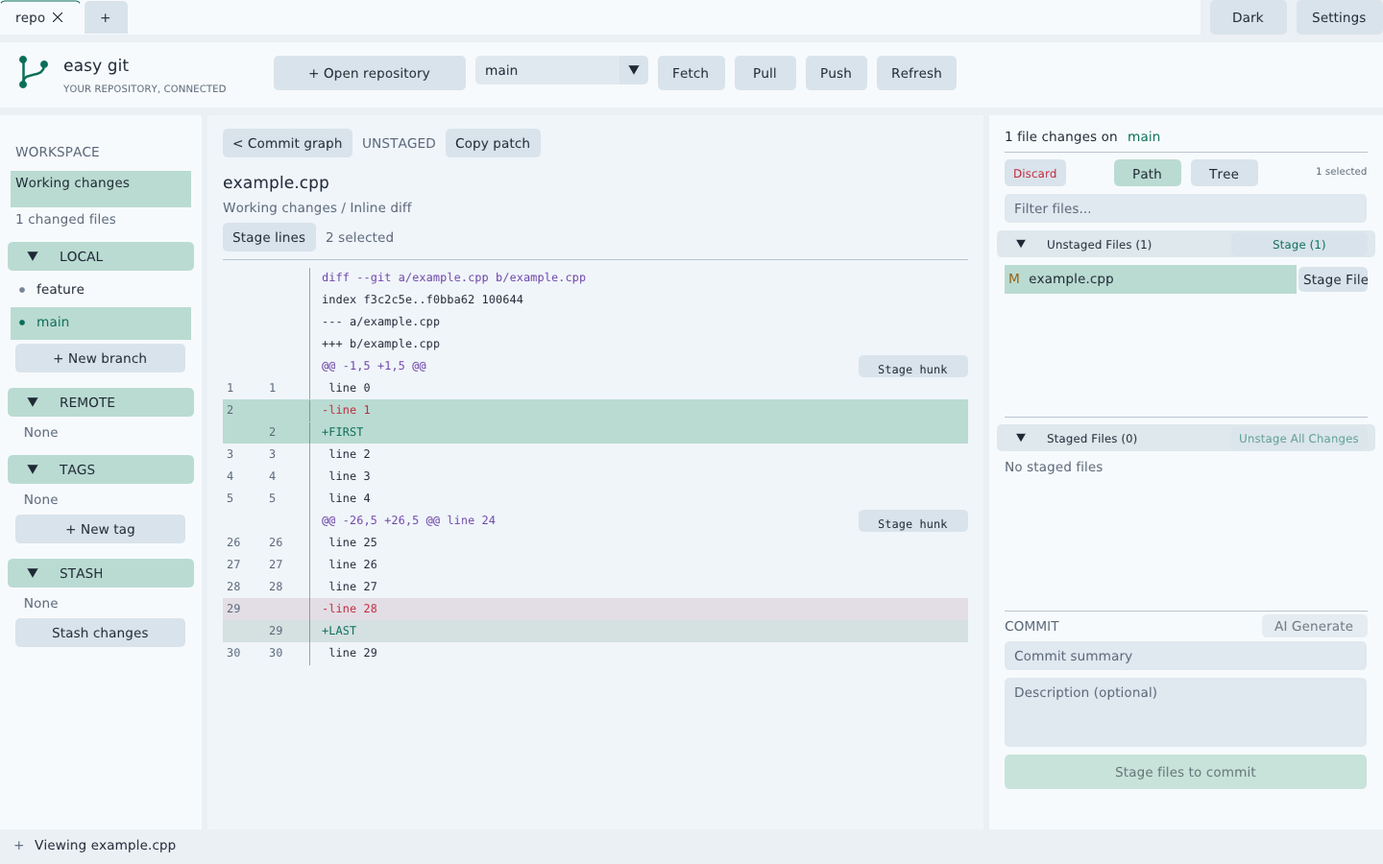
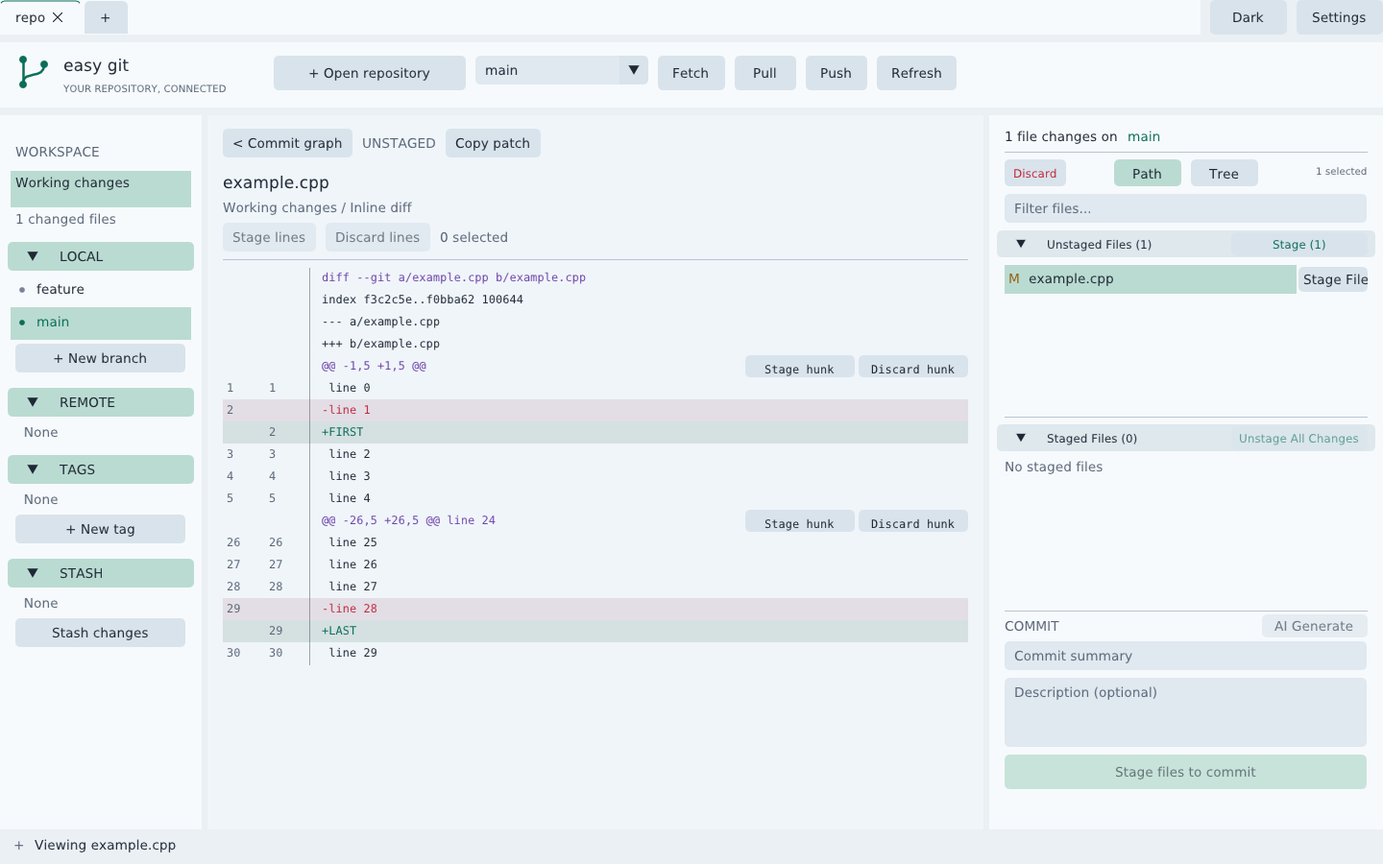
feat: discard selected diff lines and hunks

diff --git a/src/git_workflows.cpp b/src/git_workflows.cpp
@@ -53,6 +53,45 @@ struct Entry { std::string mode, oid; };
 Entry index_entry(const std::string& listing) {
     Entry e; std::istringstream stream(listing); stream >> e.mode >> e.oid; return e;
 }
+std::string selected_content(const std::string& baseline,const std::string& preview,const std::vector<int>& selected,bool reverse) {
+    auto original = lines(baseline), patch = lines(preview);
+    std::set<int> selection(selected.begin(),selected.end());
+    if (selection.empty()) throw std::runtime_error("Select added or removed lines.");
+    std::string result; size_t cursor = 0; bool hunk = false; int used = 0;
+    auto append = [&](const std::string& line) {
+        if (!result.empty() && result.back() != '\n' && !line.empty())
+            throw std::runtime_error("This selection joins lines without a final newline. Select the complete replacement hunk.");
+        result += line;
+    };
+    for (int i = 0; i < int(patch.size()); ++i) {
+        auto row = patch[i];
+        if (row.rfind("@@ ",0) == 0) {
+            int start = 0, count = 1; auto offset = reverse ? row.find(" +") : row.find(" -");
+            if (offset == std::string::npos || sscanf(row.c_str()+offset+2,"%d,%d",&start,&count) < 1)
+                throw std::runtime_error("Invalid diff hunk.");
+            size_t position = size_t(count == 0 ? start : start-1);
+            if (position < cursor || position > original.size()) throw std::runtime_error("Diff does not match the file.");
+            while (cursor < position) append(original[cursor++]);
+            hunk = true; continue;
+        }
+        if (!hunk || row.empty() || row[0] == '\\') continue;
+        char sign = row[0]; if (sign != ' ' && sign != '+' && sign != '-') { hunk = false; continue; }
+        std::string content = row.substr(1);
+        if (i+1 < int(patch.size()) && patch[i+1].rfind("\\ No newline",0) == 0 && !content.empty() && content.back() == '\n') content.pop_back();
+        bool chosen = selection.count(i) && sign != ' ';
+        if (chosen) ++used;
+        char action = reverse ? (sign == '+' ? '-' : sign == '-' ? '+' : ' ') : sign;
+        if (action == '+') { if (chosen) append(content); }
+        else {
+            if (cursor >= original.size() || original[cursor] != content) throw std::runtime_error("Diff content no longer matches the file.");
+            if (action == ' ' || !chosen) append(original[cursor]);
+            ++cursor;
+        }
+    }
+    if (used != int(selection.size())) throw std::runtime_error("Select only changed text lines inside a diff hunk.");
+    while (cursor < original.size()) append(original[cursor++]);
+    return result;
+}
 std::pair<std::string,std::string> remote_branch(const Git& git,const Ref& ref) {
     auto name = ref.full.substr(std::string("refs/remotes/").size());
     std::istringstream names(git.checked({"remote"})); std::string best;
@@ -72,42 +111,7 @@ void Git::stage_lines(const File& file,bool unstage,const std::string& preview,c
     auto baseline = entry.oid.empty() ? std::string() : checked({"cat-file","blob",entry.oid});
     if (baseline.find('\0') != std::string::npos || preview.find("GIT binary patch") != std::string::npos)
         throw std::runtime_error("Stage binary files as a whole file.");
-    auto original = lines(baseline), patch = lines(preview);
-    std::set<int> selection(selected.begin(),selected.end());
-    if (selection.empty()) throw std::runtime_error("Select added or removed lines.");
-    std::string result; size_t cursor = 0; bool hunk = false; int used = 0;
-    auto append = [&](const std::string& line) {
-        if (!result.empty() && result.back() != '\n' && !line.empty())
-            throw std::runtime_error("This selection joins lines without a final newline. Select the complete replacement hunk.");
-        result += line;
-    };
-    for (int i = 0; i < int(patch.size()); ++i) {
-        auto row = patch[i];
-        if (row.rfind("@@ ",0) == 0) {
-            int start = 0, count = 1; auto offset = unstage ? row.find(" +") : row.find(" -");
-            if (offset == std::string::npos || sscanf(row.c_str()+offset+2,"%d,%d",&start,&count) < 1)
-                throw std::runtime_error("Invalid diff hunk.");
-            size_t position = size_t(count == 0 ? start : start-1);
-            if (position < cursor || position > original.size()) throw std::runtime_error("Diff does not match the index.");
-            while (cursor < position) append(original[cursor++]);
-            hunk = true; continue;
-        }
-        if (!hunk || row.empty() || row[0] == '\\') continue;
-        char sign = row[0]; if (sign != ' ' && sign != '+' && sign != '-') { hunk = false; continue; }
-        std::string content = row.substr(1);
-        if (i+1 < int(patch.size()) && patch[i+1].rfind("\\ No newline",0) == 0 && !content.empty() && content.back() == '\n') content.pop_back();
-        bool chosen = selection.count(i) && sign != ' ';
-        if (chosen) ++used;
-        char action = unstage ? (sign == '+' ? '-' : sign == '-' ? '+' : ' ') : sign;
-        if (action == '+') { if (chosen) append(content); }
-        else {
-            if (cursor >= original.size() || original[cursor] != content) throw std::runtime_error("Diff content no longer matches the index.");
-            if (action == ' ' || !chosen) append(original[cursor]);
-            ++cursor;
-        }
-    }
-    if (used != int(selection.size())) throw std::runtime_error("Select only changed text lines inside a diff hunk.");
-    while (cursor < original.size()) append(original[cursor++]);
+    auto result = selected_content(baseline,preview,selected,unstage);
     if (entry.mode.empty()) {
         if (unstage) {
             auto tree = checked({"ls-tree","-z","HEAD","--",file.path});
@@ -121,6 +125,38 @@ void Git::stage_lines(const File& file,bool unstage,const std::string& preview,c
         throw std::runtime_error("File or index changed. Refresh and select lines again.");
     if (remove) checked({"update-index","--force-remove","--",file.path});
     else checked({"update-index","--add","--cacheinfo",entry.mode,oid,file.path});
+}
+void Git::discard_lines(const File& file,const std::string& preview,const std::vector<int>& selected) const {
+    if (!file.unstaged() || file.conflicted() || !file.original.empty())
+        throw std::runtime_error("Discard lines requires an unstaged regular file without conflicts or renames.");
+    auto path = regular_path(root_,file.path);
+    auto signature = checked({"ls-files","--stage","-z","--",file.path});
+    auto entry = index_entry(signature);
+    if (!entry.mode.empty() && entry.mode != "100644" && entry.mode != "100755")
+        throw std::runtime_error("Discard lines requires a regular text file.");
+    const bool exists = fs::exists(path);
+    auto original = exists ? read_file(path) : std::string();
+    if (original.find('\0') != std::string::npos || preview.find("GIT binary patch") != std::string::npos)
+        throw std::runtime_error("Discard binary files as a whole file.");
+    if (diff(file,false) != preview) throw std::runtime_error("The diff changed. Review the file before discarding lines.");
+    auto result = selected_content(original,preview,selected,true);
+    if (result.size() > 1024*1024) throw std::runtime_error("Partial discard supports files up to 1 MiB.");
+    const bool remove = result.empty() && file.index == '?';
+    auto unchanged = [&] {
+        regular_path(root_,file.path);
+        if (fs::exists(path) != exists || (exists && read_file(path) != original) ||
+            checked({"ls-files","--stage","-z","--",file.path}) != signature || diff(file,false) != preview)
+            throw std::runtime_error("File or index changed. Review the selection before discarding it.");
+    };
+    if (remove) { unchanged(); fs::remove(path); }
+    else {
+        fs::create_directories(path.parent_path());
+        TempFile temp(result,(path.parent_path()/".easy-git-discard-XXXXXX").string());
+        auto permissions = exists ? fs::status(path).permissions() : fs::perms::owner_read | fs::perms::owner_write | fs::perms::group_read | fs::perms::others_read;
+        if (!exists && entry.mode == "100755") permissions |= fs::perms::owner_exec | fs::perms::group_exec | fs::perms::others_exec;
+        fs::permissions(temp.path,permissions);
+        unchanged(); fs::rename(temp.path,path);
+    }
 }
 Conflict Git::read_conflict(const File& file) const {
     Conflict c; c.path = file.path;

diff --git a/src/main.cpp b/src/main.cpp
@@ -158,6 +158,8 @@ struct RepoTab {
     std::array<std::string, 3> selection_anchor;
     std::array<std::vector<int>, 3> visible_files;
     std::vector<eg::File> pending_files;
+    std::string pending_diff;
+    std::vector<int> pending_diff_lines;
     bool previewing = false;
     int queued_preview_kind = -1;
     eg::File queued_preview;
@@ -785,13 +787,21 @@ struct RepoTab {
             git.stage_lines(file,unstage,patch,selection);
         });
     }
-    void stage_hunk(int header) {
+    std::vector<int> hunk_lines(int header) const {
         std::vector<int> selected;
         for (int i = header+1; i < int(detail_lines.size()); ++i) {
             if (detail_lines[i].text.rfind("@@",0) == 0 || detail_lines[i].text.rfind("diff ",0) == 0) break;
             if (changed_line(i)) selected.push_back(i);
         }
-        stage_diff_lines(std::move(selected));
+        return selected;
+    }
+    void stage_hunk(int header) { stage_diff_lines(hunk_lines(header)); }
+    void request_discard_lines(std::vector<int> selection,bool hunk = false) {
+        if (!partial_available() || selected_staged || selection.empty()) return;
+        auto found = std::find_if(repo.files.begin(),repo.files.end(),[&](const auto& f) { return f.path == selected_file; });
+        if (found == repo.files.end()) return;
+        pending_files = {*found}; pending_diff = detail; pending_diff_lines = std::move(selection);
+        pending_kind = hunk ? "discard hunk" : "discard lines";
     }
     void set_resolution(const std::string& text) {
         resolution.assign(1024*1024+1,0);
@@ -906,8 +916,12 @@ struct RepoTab {
                 draw->AddText({p.x+103,p.y+3},ImGui::GetColorU32(color),line.c_str());
                 ImGui::PushID(i);
                 if (partial_available() && line.rfind("@@ ",0) == 0) {
-                    ImGui::SetCursorScreenPos({p.x+std::max(0.0f,ImGui::GetContentRegionAvail().x-114),p.y});
+                    ImGui::SetCursorScreenPos({p.x+std::max(0.0f,ImGui::GetContentRegionAvail().x-(selected_staged ? 114 : 232)),p.y});
                     if (button(selected_staged ? "Unstage hunk" : "Stage hunk",true,{114,h})) stage_hunk(i);
+                    if (!selected_staged) {
+                        ImGui::SameLine(0,4);
+                        if (button("Discard hunk",!busy(),{114,h})) request_discard_lines(hunk_lines(i),true);
+                    }
                     ImGui::SetCursorScreenPos({p.x,p.y+h});
                 } else if (partial_available() && changed_line(i)) {
                     if (ImGui::InvisibleButton("line",{width,h})) pick_line(i,ImGui::GetIO().KeyCtrl,ImGui::GetIO().KeyShift);
@@ -915,6 +929,7 @@ struct RepoTab {
                     if (ImGui::BeginPopupContextItem()) {
                         if (!selected_lines.count(i)) pick_line(i,false,false);
                         if (ImGui::MenuItem(selected_staged ? "Unstage selected lines" : "Stage selected lines")) stage_diff_lines({selected_lines.begin(),selected_lines.end()});
+                        if (!selected_staged && ImGui::MenuItem("Discard selected lines...")) request_discard_lines({selected_lines.begin(),selected_lines.end()});
                         ImGui::EndPopup();
                     }
                 } else ImGui::Dummy({width,h});
@@ -935,6 +950,10 @@ struct RepoTab {
         if (workspace) {
             if (button(selected_staged ? "Unstage lines" : "Stage lines",partial_available() && !selected_lines.empty()))
                 stage_diff_lines({selected_lines.begin(),selected_lines.end()});
+            if (!selected_staged) {
+                ImGui::SameLine();
+                if (button("Discard lines",partial_available() && !selected_lines.empty())) request_discard_lines({selected_lines.begin(),selected_lines.end()});
+            }
             ImGui::SameLine(); ImGui::TextColored(muted,"%zu selected",selected_lines.size());
         }
         ImGui::Separator();
@@ -1189,6 +1208,14 @@ struct RepoTab {
             ImGui::TextWrapped("Delete %s at %s?",pending_branch.full.c_str(),pending_branch.id.substr(0,12).c_str());
             if (pending_branch.full.rfind("refs/heads/",0) == 0) ImGui::Checkbox("Allow deleting an unmerged branch",&hard_confirm);
             else ImGui::TextWrapped("This deletes the branch on the remote server. A changed remote tip will cause rejection.");
+        } else if (pending_kind == "discard lines" || pending_kind == "discard hunk") {
+            ImGui::TextWrapped("Discard %zu changed lines in %s?",pending_diff_lines.size(),visible_path(pending_files.front().path).c_str());
+            ImGui::BeginChild("discard_selection",{0,180},ImGuiChildFlags_Borders,ImGuiWindowFlags_HorizontalScrollbar);
+            std::istringstream patch(pending_diff); std::set<int> chosen(pending_diff_lines.begin(),pending_diff_lines.end());
+            int i = 0;
+            for (std::string line; std::getline(patch,line); ++i) if (chosen.count(i)) ImGui::TextUnformatted(line.c_str());
+            ImGui::EndChild();
+            ImGui::TextWrapped("Only these unstaged edits will be discarded. Staged changes and other lines are kept. Discard cannot be undone here.");
         } else if (pending_kind == "discard files") {
             ImGui::Text("Discard unstaged changes in %zu files?",pending_files.size());
             ImGui::BeginChild("discard_files",{0,std::min(160.0f,28.0f*pending_files.size()+10)},ImGuiChildFlags_Borders);
@@ -1238,7 +1265,8 @@ struct RepoTab {
             auto kind = pending_kind; auto commit = pending_commit; auto saved = pending_stash;
             auto files = pending_files; auto branch = pending_branch; auto push = pending_push; bool force = hard_confirm;
             auto operation = pending_operation; int parent = mainline, mode = reset_mode; bool index = restore_index;
-            mutate(kind,[kind,commit,saved,operation,parent,mode,index,files,branch,push,force](const eg::Git& git) {
+            auto patch = pending_diff; auto lines = pending_diff_lines;
+            mutate(kind,[kind,commit,saved,operation,parent,mode,index,files,branch,push,force,patch,lines](const eg::Git& git) {
                 if (kind == "delete branch") git.delete_branch(branch,force);
                 else if (kind == "force push") git.force_push(push);
                 else if (kind == "cherry-pick") git.cherry_pick(commit,parent);
@@ -1248,6 +1276,7 @@ struct RepoTab {
                 else if (kind == "apply stash") git.apply_stash(saved,index);
                 else if (kind == "delete stash") git.delete_stash(saved);
                 else if (kind == "discard files") git.discard_files(files);
+                else if (kind == "discard lines" || kind == "discard hunk") git.discard_lines(files.at(0),patch,lines);
                 else git.resolve_operation(operation,kind);
             });
             pending_kind.clear(); ImGui::CloseCurrentPopup();

diff --git a/tests/git_workflows_test.cpp b/tests/git_workflows_test.cpp
@@ -57,6 +57,39 @@ int main() {
         require(fresh.checked({"show",":new.txt"})=="first\n","Partial stage in unborn branch failed");
         f=file(fresh,"new.txt"); patch=fresh.diff(f,true); fresh.stage_lines(f,true,patch,changes(patch));
         require(fresh.checked({"ls-files"}).empty(),"Partial unstage in unborn branch failed");
+        // Discard selected working-tree changes while keeping the index and other hunks.
+        write(repo/"discard.txt",many); git.stage({"discard.txt"}); git.commit("discard base");
+        auto staged=many; staged.replace(staged.find("line 0\n"),7,"STAGED\n");
+        write(repo/"discard.txt",staged); git.stage({"discard.txt"});
+        auto working=staged; working.replace(working.find("line 1\n"),7,"FIRST\n"); working.replace(working.find("line 28\n"),8,"LAST\n");
+        write(repo/"discard.txt",working); auto tree=git.checked({"write-tree"});
+        f=file(git,"discard.txt"); patch=git.diff(f,false); selection=changes(patch,"line 28"); plus=changes(patch,"LAST"); selection.insert(selection.end(),plus.begin(),plus.end());
+        git.discard_lines(f,patch,selection);
+        auto kept=staged; kept.replace(kept.find("line 1\n"),7,"FIRST\n");
+        require(read(repo/"discard.txt")==kept && git.checked({"write-tree"})==tree,"Discard hunk changed staged content or other hunks");
+        rejects([&]{git.discard_lines(f,patch,selection);});
+        f=file(git,"discard.txt"); patch=git.diff(f,false); selection=changes(patch,"FIRST");
+        git.discard_lines(f,patch,selection);
+        require(read(repo/"discard.txt")==staged.substr(0,7)+staged.substr(14),"Discard added line changed unrelated content");
+        f=file(git,"discard.txt"); patch=git.diff(f,false);
+        write(repo/"discard.txt","external edit\n");
+        rejects([&]{git.discard_lines(f,patch,changes(patch));});
+        require(read(repo/"discard.txt")=="external edit\n" && git.checked({"write-tree"})==tree,"Stale discard damaged file/index");
+        write(repo/"discard.txt",staged); fs::remove(repo/"discard.txt");
+        f=file(git,"discard.txt"); patch=git.diff(f,false); git.discard_lines(f,patch,changes(patch,"line 28"));
+        require(read(repo/"discard.txt")=="line 28\n" && git.checked({"write-tree"})==tree,"Partial restore of deleted file failed");
+        const std::string loose="loose 新\n[1].txt"; write(repo/loose,"first\nsecond");
+        f=file(git,loose); patch=git.diff(f,false); git.discard_lines(f,patch,changes(patch,"first"));
+        require(read(repo/loose)=="second","Discard untracked line failed");
+        f=file(git,loose); patch=git.diff(f,false); git.discard_lines(f,patch,changes(patch));
+        require(!fs::exists(repo/loose) && git.checked({"write-tree"})==tree,"Discard complete new hunk failed");
+        write(repo/"discard.txt",staged); f=file(git,"discard.txt");
+        rejects([&]{git.discard_lines(f,git.diff(f,false),{});});
+        write(repo/"discard.txt",std::string("a\0b",3)); f=file(git,"discard.txt");
+        rejects([&]{git.discard_lines(f,git.diff(f,false),{0});});
+        require(read(repo/"discard.txt")==std::string("a\0b",3),"Binary discard modified file");
+        fs::remove(repo/"discard.txt"); fs::create_symlink("file.txt",repo/"discard.txt"); f=file(git,"discard.txt");
+        rejects([&]{git.discard_lines(f,git.diff(f,false),{0});}); fs::remove(repo/"discard.txt");
         git.checked({"reset","--hard","HEAD"});
         git.checked({"switch","-c","side"}); write(repo/"file.txt","theirs\n"); git.stage({"file.txt"}); git.commit("theirs");
         git.checked({"switch","main"}); write(repo/"file.txt","ours\n"); git.stage({"file.txt"}); git.commit("ours");

diff --git a/tests/ui_state_test.cpp b/tests/ui_state_test.cpp
@@ -264,6 +264,36 @@ int main() {
         editor.pick_line(2,true,false);
         require(editor.selected_lines.size() == 1 && editor.selected_lines.count(3),"Ctrl did not toggle a diff line");
         editor.set_detail("refreshed"); require(editor.selected_lines.empty(),"Diff refresh retained stale line selections");
+        auto* partial = restored.tabs[0].get();
+        std::string original; for (int i=0;i<30;++i) original += "line " + std::to_string(i) + "\n";
+        std::ofstream(root_b / "partial.txt") << original; git_b.stage({"partial.txt"}); git_b.commit("Partial UI base");
+        auto modified = original; modified.replace(modified.find("line 1\n"),7,"FIRST\n"); modified.replace(modified.find("line 28\n"),8,"LAST\n");
+        std::ofstream(root_b / "partial.txt") << modified; git_b.stage({"partial.txt"});
+        partial->load(root_b.string()); settle(restored); partial->select_workspace();
+        auto preview_partial = [&](bool staged) {
+            auto f = *std::find_if(partial->repo.files.begin(),partial->repo.files.end(),[](const auto& file) { return file.path == "partial.txt"; });
+            partial->select_file(f,staged); settle(restored);
+        };
+        auto first_hunk = [&] {
+            for (int i=0;i<int(partial->detail_lines.size());++i) if (partial->detail_lines[i].text.rfind("@@ ",0)==0) return i;
+            throw std::runtime_error("No partial diff hunk");
+        };
+        preview_partial(true); partial->stage_hunk(first_hunk()); settle(restored);
+        auto index_content = original; index_content.replace(index_content.find("line 28\n"),8,"LAST\n");
+        require(git_b.checked({"show",":partial.txt"})==index_content,"Unstage hunk affected the other staged hunk");
+        preview_partial(false); auto chosen_lines = partial->hunk_lines(first_hunk());
+        partial->request_discard_lines(chosen_lines,true); frame(restored); frame(restored);
+        require(partial->pending_kind=="discard hunk" && partial->pending_diff_lines.size()==2,"Discard hunk confirmation lost selection");
+        auto confirm_discard = [&](bool confirm) {
+            auto* modal = ImGui::FindWindowByName("Confirm Git operation"); require(modal && modal->Active,"Discard confirmation missing");
+            io.AddMousePosEvent(modal->Pos.x+(confirm ? 45 : 130),modal->Pos.y+modal->Size.y-30); frame(restored);
+            io.AddMouseButtonEvent(0,true); frame(restored); io.AddMouseButtonEvent(0,false); frame(restored); frame(restored);
+            require(partial->pending_kind.empty(),"Discard dialog button did not close confirmation"); settle(restored);
+        };
+        confirm_discard(false);
+        require(git_b.checked({"diff","--","partial.txt"}).find("FIRST")!=std::string::npos,"Cancel discarded working edits");
+        partial->request_discard_lines(chosen_lines,true); frame(restored); frame(restored); confirm_discard(true);
+        require(git_b.checked({"diff","--","partial.txt"}).empty() && git_b.checked({"show",":partial.txt"})==index_content,"Discard hunk changed staged content or kept discarded edits");
         snprintf(restored.tabs[0]->message,sizeof(restored.tabs[0]->message),"Keep existing draft");
         restored.tabs[0]->generate_message();
         while (restored.busy()) { frame(restored); std::this_thread::sleep_for(std::chrono::milliseconds(5)); }

diff --git a/src/git.h b/src/git.h
@@ -76,6 +76,7 @@ public:
     void discard_files(const std::vector<File>& files) const;
     void commit(const std::string& message) const;
     void stage_lines(const File& file, bool unstage, const std::string& preview, const std::vector<int>& lines) const;
+    void discard_lines(const File& file, const std::string& preview, const std::vector<int>& lines) const;
     Conflict read_conflict(const File& file) const;
     void save_resolution(const Conflict& conflict, const std::string& result, bool remove = false) const;
     static void clone(const std::string& url, const std::string& destination, std::shared_ptr<std::atomic_bool> cancel = {});

diff --git a/README.md b/README.md
@@ -12,7 +12,7 @@ Easy Git takes inspiration from GitKraken's three-panel interface. It is an inde
 
 - **Multiple repositories:** browse folders, open and reorder repository tabs, and restore open repositories on startup. Each tab keeps its own draft, selection, and view state during the session.
 - **Commit graph:** inspect branches, merges, commit details, and changed files. Clicking a local or remote branch scrolls to its tip, loading additional history when necessary.
-- **File workflow:** separate Unstaged and Staged panels, Path and Tree views, filtering, inline diffs with line numbers, Ctrl/Shift selection, file/line/hunk staging and unstaging, and confirmed discard.
+- **File workflow:** separate Unstaged and Staged panels, Path and Tree views, filtering, inline diffs with line numbers, Ctrl/Shift selection, file/line/hunk staging, unstaging, and confirmed discard.
 - **Git operations:** commit, create and switch branches, create tags, fetch, fast-forward-only pull, push, cherry-pick, merge, revert, soft/mixed/hard reset, clone, initialization, branch deletion, and force push with an explicit lease.
 - **Stash:** save tracked and untracked changes; click to preview, then use the context menu to apply or delete. Conflict operations expose Continue, Abort, and Skip where supported.
 - **Appearance:** light and dark themes, automatic window-size restoration, resizable panels, and collapsible Local, Remote, Tags, and Stash sections.
@@ -65,9 +65,11 @@ Clicking a **Stash** only previews its files and diffs. **Apply** retains the st
 
 ![Stash preview](docs/stash-preview.png)
 
-## Partial staging and conflict resolution
+## Partial staging, discard, and conflict resolution
 
-In a working-tree diff, click changed lines to select them, use Ctrl/Shift to adjust the selection, then click **Stage lines** or right-click **Stage selected lines**. Each `@@` header has a **Stage hunk** button. In the staged diff, the same controls **unstage** lines or hunks. These operations change only the index and reject stale previews. Binary files, symlinks, submodules, and renames use whole-file operations.
+In a working-tree diff, click changed lines to select them, use Ctrl/Shift to adjust the selection, then click **Stage lines** or right-click **Stage selected lines**. Each `@@` header has a **Stage hunk** button. Open a file from **Staged Files** to use **Unstage lines** or **Unstage hunk**. Stage/Unstage changes only the index and rejects stale previews. Binary files, symlinks, submodules, and renames use whole-file operations.
+
+Open a file from **Unstaged Files** to select changed lines and click **Discard lines** (also available in the right-click menu), or use **Discard hunk** beside a `@@` header. Confirmation lists the selected lines. Discard reverses only those working-tree edits, preserves staged content and other changes, and rejects a changed preview. Partial discard supports regular text files up to 1 MiB; discarding all lines of an untracked file removes it. Discarded edits cannot be undone in the app.
 
 Click a conflicted file to open **Resolve conflict**. The upper panels show ours (index stage 2) and theirs (stage 3); the lower result can be edited directly. Choose **Use ours**, **Use theirs**, or **Use both** for each conflict block, or choose an entire version. A missing version offers **Accept deletion**; binary conflicts support entire-version selection only. **Save and mark resolved** writes and stages the result without committing. Unresolved markers or externally changed files prevent saving. The editor supports regular files up to 1 MiB. During rebase, ours/theirs follow Git's stage semantics, as explained in the dialog.
 
@@ -77,7 +79,9 @@ Right-click a local or remote branch and choose **Delete branch...**. Local dele
 
 Interaction references: [GitKraken partial staging](https://support.gitkraken.com/working-with-commits/staging/) and [merge conflict workflow](https://help.gitkraken.com/gitkraken-desktop/branching-and-merging/).
 
-![Partial staging](docs/partial-staging.png)
+![Partial staging and discard](docs/partial-staging.png)
+
+![Discard hunk confirmation](docs/discard-hunk.png)
 
 ![Conflict editor](docs/conflict-editor.png)
 
@@ -120,9 +124,9 @@ Tests create disposable repositories under `/tmp`:
 | --- | --- |
 | `git_workflow` | Status, unusual paths, staging, commits, commit graphs, pagination, file diffs, stash, and local remote operations |
 | `git_operations` | Cherry-pick, merge, revert, reset modes, stash handling, conflict continuation/abort/skip, and discard protections |
-| `git_workflows` | Partial staging/unstaging, conflict resolution, clone/init, local/remote branch deletion, and force-push lease rejection |
+| `git_workflows` | Partial staging/unstaging/discard, selection isolation and stale-preview rejection, conflict resolution, clone/init, local/remote branch deletion, and force-push lease rejection |
 | `settings_and_ai` | Configuration replacement and permissions, window-size round trips and validation, per-model settings and migration, custom model add/delete protection, OpenAI/Anthropic HTTP requests and responses, cancellation, and stale-index protection |
-| `repository_tabs` | Headless ImGui interactions, independent tabs and drafts, branch navigation, file selections, batch operations, settings Save/Cancel including model add/delete, and restart recovery |
+| `repository_tabs` | Headless ImGui interactions, independent tabs and drafts, branch navigation, file selections, batch operations, settings Save/Cancel including model add/delete, partial unstage and discard confirmation/cancellation, and restart recovery |
 
 AI tests use a local loopback HTTP server and require permission to listen on a local port. They do not call paid providers. Actual provider calls require your own API key and have not been validated by these tests.
 
@@ -142,13 +146,13 @@ xvfb-run -a -s '-screen 0 1440x900x24' \
   --frames 30 --screenshot /tmp/easy-git.ppm
 ```
 
-Screenshots in `docs/` come from the running application with temporary demonstration repositories. Native window resizing and restart restoration were also checked under Xvfb: resizing to 1220 × 780 automatically saved only width/height, and the next launch restored that size.
+Screenshots in `docs/` come from the running application with temporary demonstration repositories. Mouse-driven checks cover staging one hunk, confirming discard of another while preserving staged content, and unstaging the first hunk while retaining its working-tree edits. Native window resizing and restart restoration were also checked under Xvfb: resizing to 1220 × 780 automatically saved only width/height, and the next launch restored that size.
 
 ## Current limitations
 
 - Linux/X11 only; Wayland desktops require XWayland. The minimum window size is 1080×720. Windows and macOS process backends are not implemented.
 - No interactive rebase editor or commit drag-and-drop. Existing externally started rebases can be continued or aborted.
-- Partial staging and conflict editing operate on regular text files; binary conflict resolution is whole-version only. Symlinks/submodules and renamed files require whole-file or external operations.
+- Partial staging, unstaging, discard, and conflict editing operate on regular text files; binary conflict resolution is whole-version only. Symlinks/submodules and renamed files require whole-file or external operations.
 - Merge diffs use the first parent. History loads in batches of 300; search covers loaded commits only, and graph edges are hidden while filtering.
 - Commit drafts, file selections, and panel layout last only for the current session. External changes require a refresh.
 - Git commands have a 120-second timeout and an 8 MiB output limit. Exceeding either reports an error rather than presenting incomplete results.
